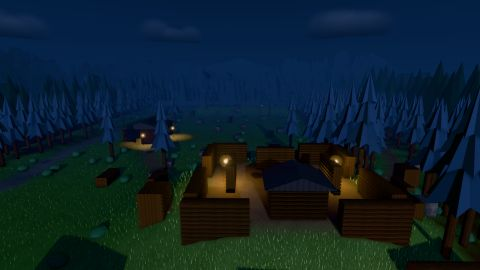
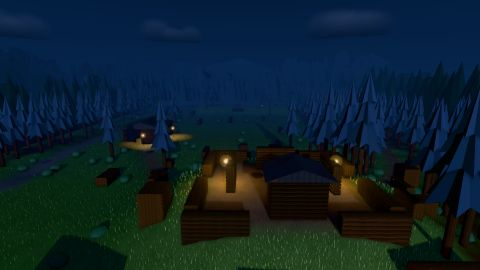
WL2: Woodland's menu picture redrawn for the final layout; Extraction figures noted
Claude-Session: https://claude.ai/code/session_01MkuAm1koVEiRoTBjdKDrQy

diff --git a/docs/KNOWN_ISSUES.md b/docs/KNOWN_ISSUES.md
@@ -168,7 +168,7 @@ Every open bug, limit and known gap in the game, so nobody re-reports or re-meas
 | In Extraction only you open cases; bot teammates don't loot, and the home team guards and patrols the cases but never opens or moves them | can wait | Since M46 teammates cover you while you open. (M44, M46) |
 | An Extraction teammate covering you from crouch-only cover still crouches, and crouched it can't see the way it watches | can wait | Corner spots lean out; crouch cover stays by M46's design. Standing up is an owner call. (M55, audit AI-01) |
 | Extraction's balance figures play a bot runner, which walks straight to the nearest cases and falls quicker than a careful player | document | Quick runs end before the home team hunts (`depotMatch.extractionHunters.test.ts`). The owner's playtest sets the targets. (M46, M72) |
-| Woodland's Extraction figure against an Easy home team reads 75 % of runs out on its 48 runs, over the 39–69 % band but within noise | document | It read 64.6 % before WL2 and 66.7 % on WL2's first run (±6.5). Re-measure on more seeds in the bug pass before tuning. (WL2) |
+| Woodland's Extraction against a Normal home team reads high since WL2 took the boulders out: 50 % of runs out (18–48 %) and 55 XP a minute (12–52) on its 48 runs | document | Was 35 % and 33 XP. The figures play a bot runner (row above), and WL2's runs swung Easy between 62 % and 75 % too, so re-measure on more seeds once Woodland's ground changes land (the owner's hills and ravine) before tuning. (WL2) |
 | Neon Heights' Extraction figure against a Normal home team reads 50 FC a minute on its 48 runs, over the 9–49 band | document | Seeds 1–48 are a high block (over 96 runs the haul is inside the band). Re-measure on more seeds in the bug pass. (BN1) |
 
 ## Figures and art
